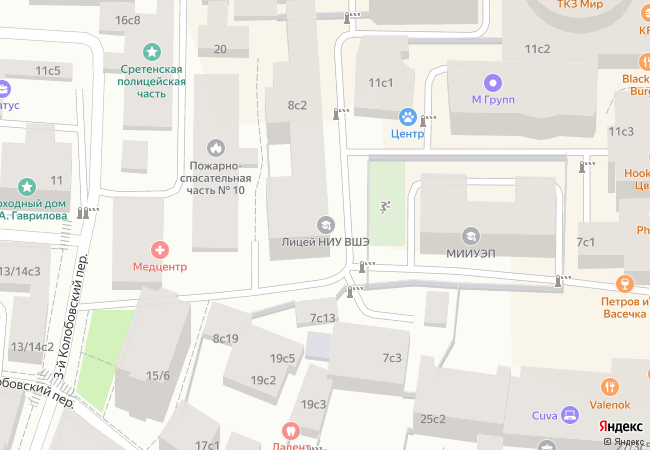
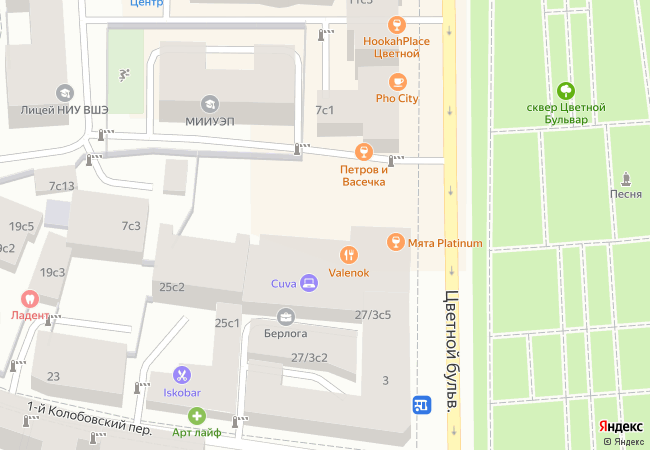
передвижение по карте с помощью кнопок

diff --git a/run.py b/run.py
@@ -59,12 +59,22 @@ def update_map():
 # MAIN WINDOW CREATING
 def main_window_process_events(self, event):
     if event.type == pygame.KEYDOWN:
-        keys = [i for i, e in enumerate(pygame.key.get_pressed()) if e]
-        if 75 in keys and parse_requests.SPN >= 0:
-            parse_requests.SPN /= 2
-            update_map()
-        elif 78 in keys and parse_requests.SPN < 50:
-            parse_requests.SPN *= 2
+        keys = [i for i, e in enumerate(pygame.key.get_pressed()) if e and i in [75] + list(range(78, 83))]
+        if keys:
+            if 75 in keys and parse_requests.SPN >= 0:
+                parse_requests.SPN /= 2
+            elif 78 in keys and parse_requests.SPN < 50:
+                parse_requests.SPN *= 2
+            else:
+                move = parse_requests.SPN * 0.2
+                if 82 in keys and parse_requests.COORDS[1] + move < 100:
+                    parse_requests.COORDS[1] += move
+                if 81 in keys and parse_requests.COORDS[1] - move > -100:
+                    parse_requests.COORDS[1] -= move
+                if 80 in keys:
+                    parse_requests.COORDS[0] -= move
+                if 79 in keys:
+                    parse_requests.COORDS[0] += move
             update_map()
 
 main_window = core.Window(
